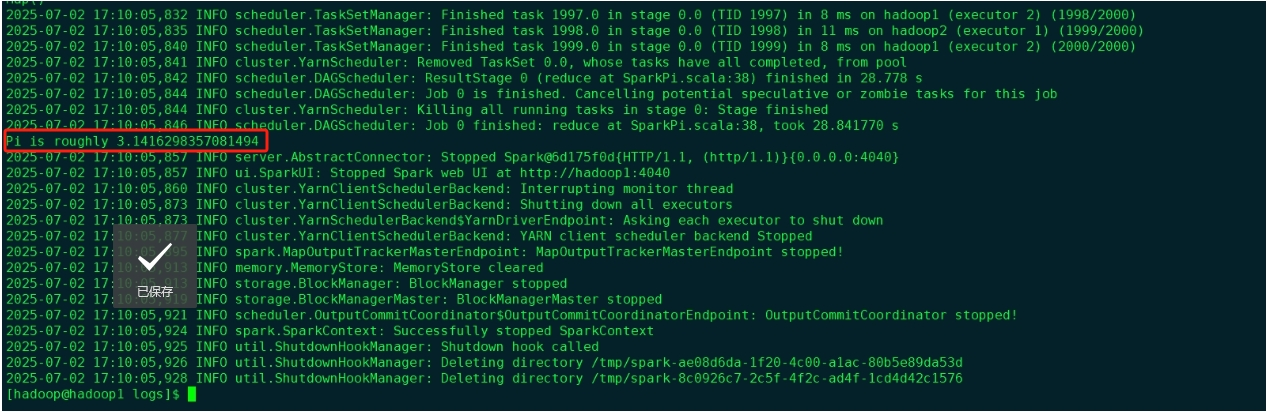
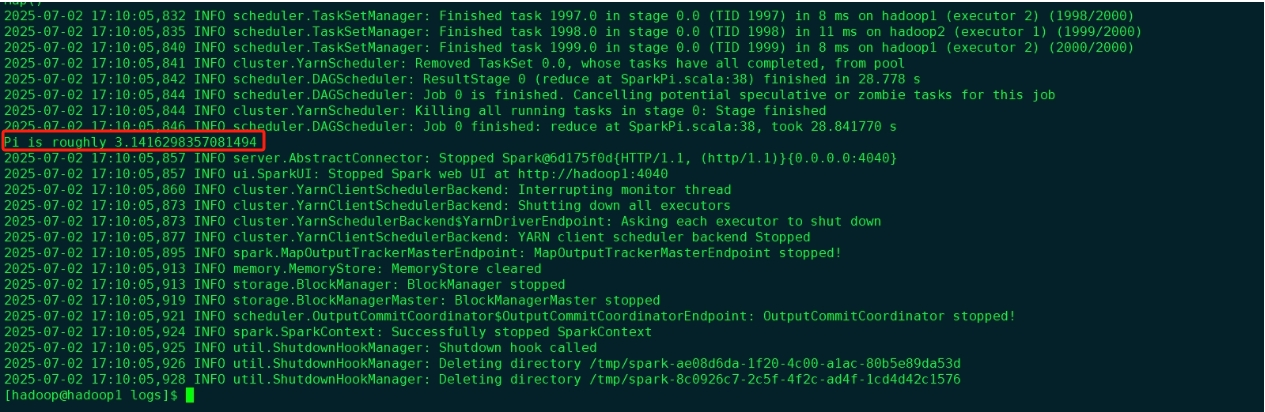
Update README and usage file

Changed region(s): [[0.0, 0.0, 1.0, 1.0], [0.6166, 0.3495, 0.7091, 0.4078], [0.9866, 0.0, 1.0, 0.0291]]

diff --git a/README.md b/README.md
@@ -1,8 +1,8 @@
-# spark-3.4.4-kunpeng
+# spark-3.2.0-kunpeng-CuckooSQL
 
 ## 规格说明
 - 镜像商品：[Spark分布式计算引擎](https://marketplace.huaweicloud.com/hidden/contents/f64209ef-b251-4d92-b560-ff21acf86e09#productid=OFFI1126357985762062336)
-- 镜像规格：spark-3.4.4-kunpeng-HCE
+- 镜像规格：spark-3.2.0-kunpeng-CuckooSQL
 - 适配项：[ECS](https://support.huaweicloud.com/ecs/index.html)
 - CPU架构：ARM
 - 操作系统：Huawei Cloud EulerOS 2.0 64bit